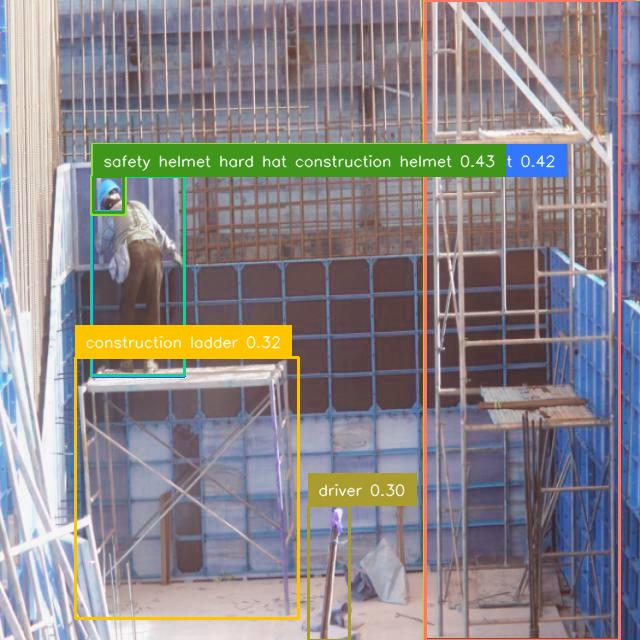
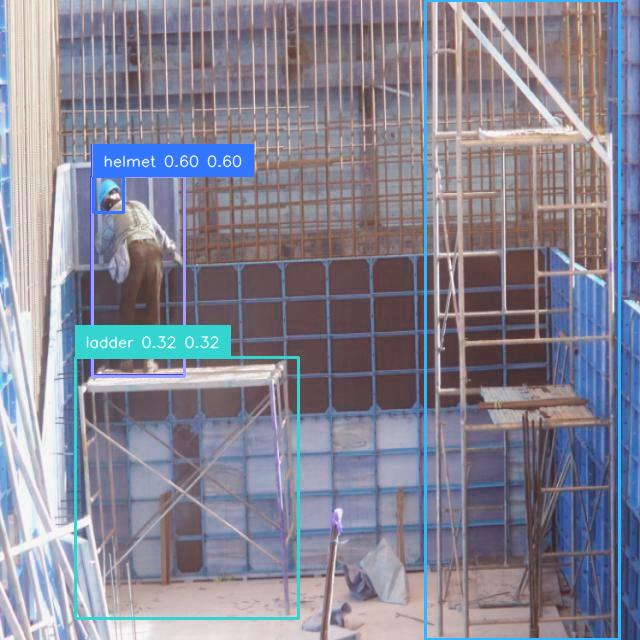
removed overlaps in viz need to remove them from labels

Changed region(s): [[0.0938, 0.0, 1.0, 1.0]]

diff --git a/utils/data_labeling/vlm_labeling/autolabel.py b/utils/data_labeling/vlm_labeling/autolabel.py
@@ -1,34 +1,37 @@
 import argparse
-import yaml
+import time
 from pathlib import Path
 
 import numpy as np
 import torch
+import yaml
 from PIL import Image
 
 from groundingdino.util.inference import load_image, annotate
 from .backends.groundingdino_backend import GroundingDINOBackend
 from .io_yolo import write_yolo_labels
-from .postprocess import classwise_nms  # NEW
-import time
+from .postprocess import classwise_nms  # alias filter + canonicalize + NMS
 
 BACKENDS = {"groundingdino": GroundingDINOBackend}
 
 
 def main():
     parser = argparse.ArgumentParser()
-    parser.add_argument("--config", required=True)
-    parser.add_argument("--source", required=True)
-    parser.add_argument("--out", default="runs/autolabel")
+    parser.add_argument("--config", required=True, help="YAML with backend + classes")
+    parser.add_argument("--source", required=True, help="Folder of images (searched recursively)")
+    parser.add_argument("--out", default="runs/autolabel", help="Output folder")
     parser.add_argument("--backend", default="groundingdino", choices=BACKENDS.keys())
-    parser.add_argument("--save", action="store_true", help="save visualization under out/viz")
+    parser.add_argument("--save", action="store_true", help="Save visualizations under out/viz")
     parser.add_argument("--nms-iou", type=float, default=0.5, help="IoU threshold for class-wise NMS")
-    parser.add_argument("--min-rel-area", type=float, default=0.0, help="drop boxes smaller than this fraction of image area (e.g., 0.002)")
+    parser.add_argument("--min-rel-area", type=float, default=0.0,
+                        help="Drop boxes smaller than this fraction of image area (e.g., 0.002)")
     args = parser.parse_args()
 
+    # Load config
     with open(args.config, "r", encoding="utf-8") as f:
         cfg = yaml.safe_load(f)
 
+    # Init backend (it should handle CUDA->CPU fallback internally)
     backend_cls = BACKENDS[args.backend]
     backend = backend_cls(**cfg["backend"])
 
@@ -36,28 +39,46 @@ def main():
     prompts = cfg["classes"]["aliases"]          # list of alias phrases to prompt
     alias_map = cfg["classes"]["alias_map"]      # phrase -> class_id
 
-    # discover images
+    # Discover images
     src_path = Path(args.source).resolve()
-    exts = {".jpg", ".jpeg", ".png", ".bmp", ".webp", ".JPG", ".JPEG", ".PNG", ".BMP", ".WEBP"}
+    exts = {".jpg", ".jpeg", ".png", ".bmp", ".webp",
+            ".JPG", ".JPEG", ".PNG", ".BMP", ".WEBP"}
     images = sorted([p for p in src_path.rglob("*") if p.suffix in exts])
+
     print(f"[autolabel] scanning: {src_path}")
     print(f"[autolabel] found {len(images)} images in {src_path}")
 
+    if not images:
+        print("[autolabel] no images found. Exiting.")
+        return
+
+    # Output dirs
     out_dir = Path(args.out)
     labels_dir = out_dir / "labels"
     labels_dir.mkdir(parents=True, exist_ok=True)
     viz_dir = out_dir / "viz"
     if args.save:
         viz_dir.mkdir(parents=True, exist_ok=True)
-    
-    start_time = time.time()
-    for img in images:
+
+    # Canonical alias map for the writer (name -> id)
+    canon_alias_map = {class_names[i]: i for i in range(len(class_names))}
+
+    # Timing stats
+    t_total = 0.0
+    total_kept = 0
+
+    t_all_start = time.time()
+    for idx, img in enumerate(images, 1):
+        # Load image (GroundingDINO helper returns (path_str, np.ndarray RGB))
         _, image_rgb = load_image(str(img))
 
-        # raw detections from backend (still using phrases)
-        dets = backend.predict(image_rgb, prompts)
+        # Inference timing (per image)
+        t0 = time.time()
+        dets = backend.predict(image_rgb, prompts)  # raw phrases
+        infer_s = time.time() - t0
+        t_total += infer_s
 
-        # post-process: alias filter + collapse to canonical + class-wise NMS
+        # Post-process: filter to our classes, canonical names, class-wise NMS
         W, H = Image.open(img).size
         kept = classwise_nms(
             dets, alias_map, class_names,
@@ -65,40 +86,44 @@ def main():
             min_rel_area=args.min_rel_area,
             img_wh=(W, H),
         )
+        total_kept += len(kept)
 
-        # debug
-        print(f"[autolabel] {img.name}: raw={len(dets)} kept={len(kept)}")
+        print(f"[autolabel] {idx:04d}/{len(images)} {img.name}: "
+              f"infer={infer_s:.3f}s raw={len(dets)} kept={len(kept)}")
 
-        # write YOLO labels with canonical class IDs
-        # build a lightweight view compatible with your writer
+        # Build a lightweight view for writer (supports canonical labels)
         class Simple:
-            def __init__(self, k):  # k is PPDet
-                self.label = k.label
+            def __init__(self, k):
+                self.label = k.label          # canonical name
                 self.bbox_xyxy = k.bbox_xyxy
                 self.score = k.score
                 self.cls_id = k.cls_id
-        kept_view = [Simple(k) for k in kept]
 
-        # Slight tweak: your writer expects alias_map lookups by phrase.
-        # We can create a tiny alias_map for canonical names:
-        canon_alias_map = {class_names[i]: i for i in range(len(class_names))}
+        kept_view = [Simple(k) for k in kept]
         write_yolo_labels(img, kept_view, canon_alias_map, labels_dir.as_posix())
 
-        # visualization (canonical names only)
+        # Optional visualization
         if args.save and kept:
             try:
                 boxes_np = np.array([k.bbox_xyxy for k in kept], dtype=np.float32)
                 logits_np = np.array([k.score for k in kept], dtype=np.float32)
-                boxes_t = torch.from_numpy(boxes_np)
-                logits_t = torch.from_numpy(logits_np)
-                phrases = [f"{k.label} {k.score:.2f}" for k in kept]  # canonical name
+                boxes_t = torch.from_numpy(boxes_np) if len(boxes_np) else torch.empty((0, 4), dtype=torch.float32)
+                logits_t = torch.from_numpy(logits_np) if len(logits_np) else torch.empty((0,), dtype=torch.float32)
+                phrases = [f"{k.label} {k.score:.2f}" for k in kept]  # canonical label for viz
+
                 img_rgb = np.array(Image.open(img).convert("RGB"))
                 annotated = annotate(image_source=img_rgb, boxes=boxes_t, logits=logits_t, phrases=phrases)
+                (viz_dir / img.name).parent.mkdir(parents=True, exist_ok=True)
                 Image.fromarray(annotated).save(viz_dir / img.name)
             except Exception as e:
                 print(f"[autolabel][viz] failed for {img.name}: {e}")
-    
+
+    t_all = time.time() - t_all_start
     print(f"Done. Labels saved in {labels_dir}")
-    elapsed = time.time() - start_time
-    print(f"[autolabel] processed {len(images)} images in {elapsed:.2f}s "
-      f"({elapsed/len(images):.3f}s per image on average)")
+    print(f"[autolabel] processed {len(images)} images | "
+          f"total time={t_all:.2f}s | avg end-to-end={t_all/len(images):.3f}s/img | "
+          f"avg inference={t_total/len(images):.3f}s/img | total kept boxes={total_kept}")
+
+
+if __name__ == "__main__":
+    main()
